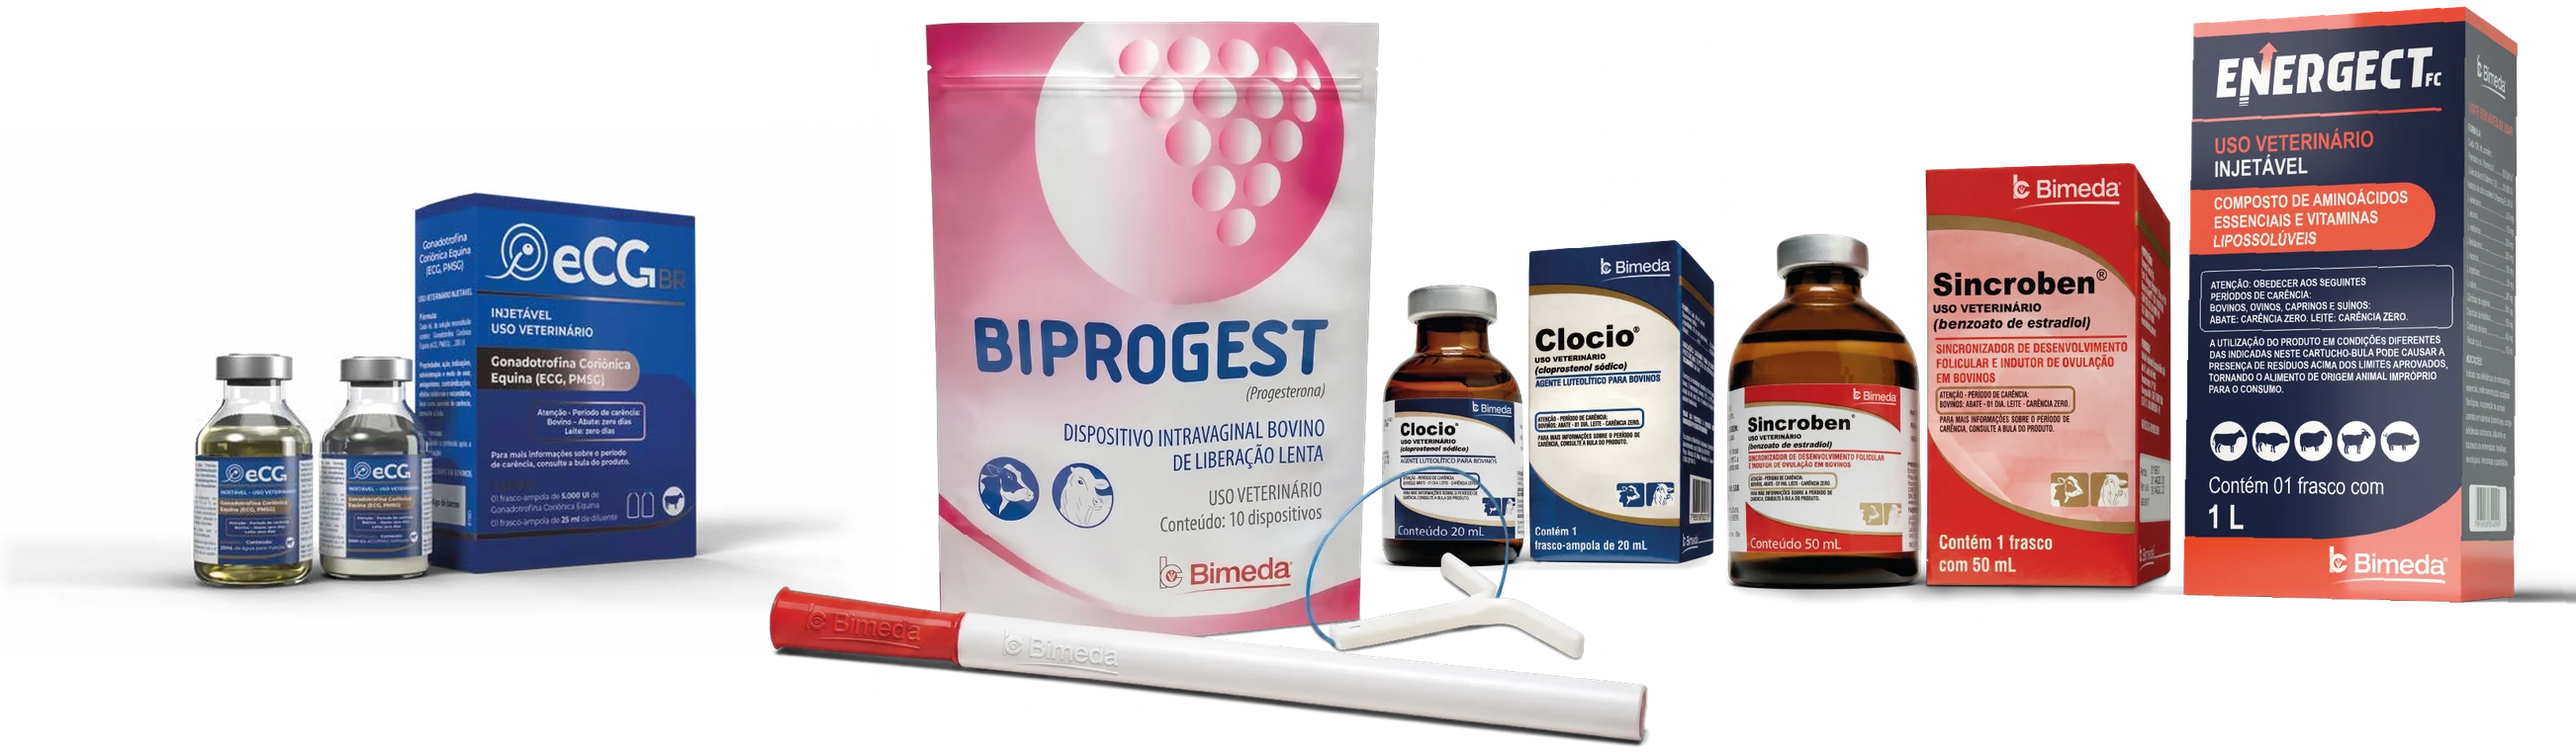
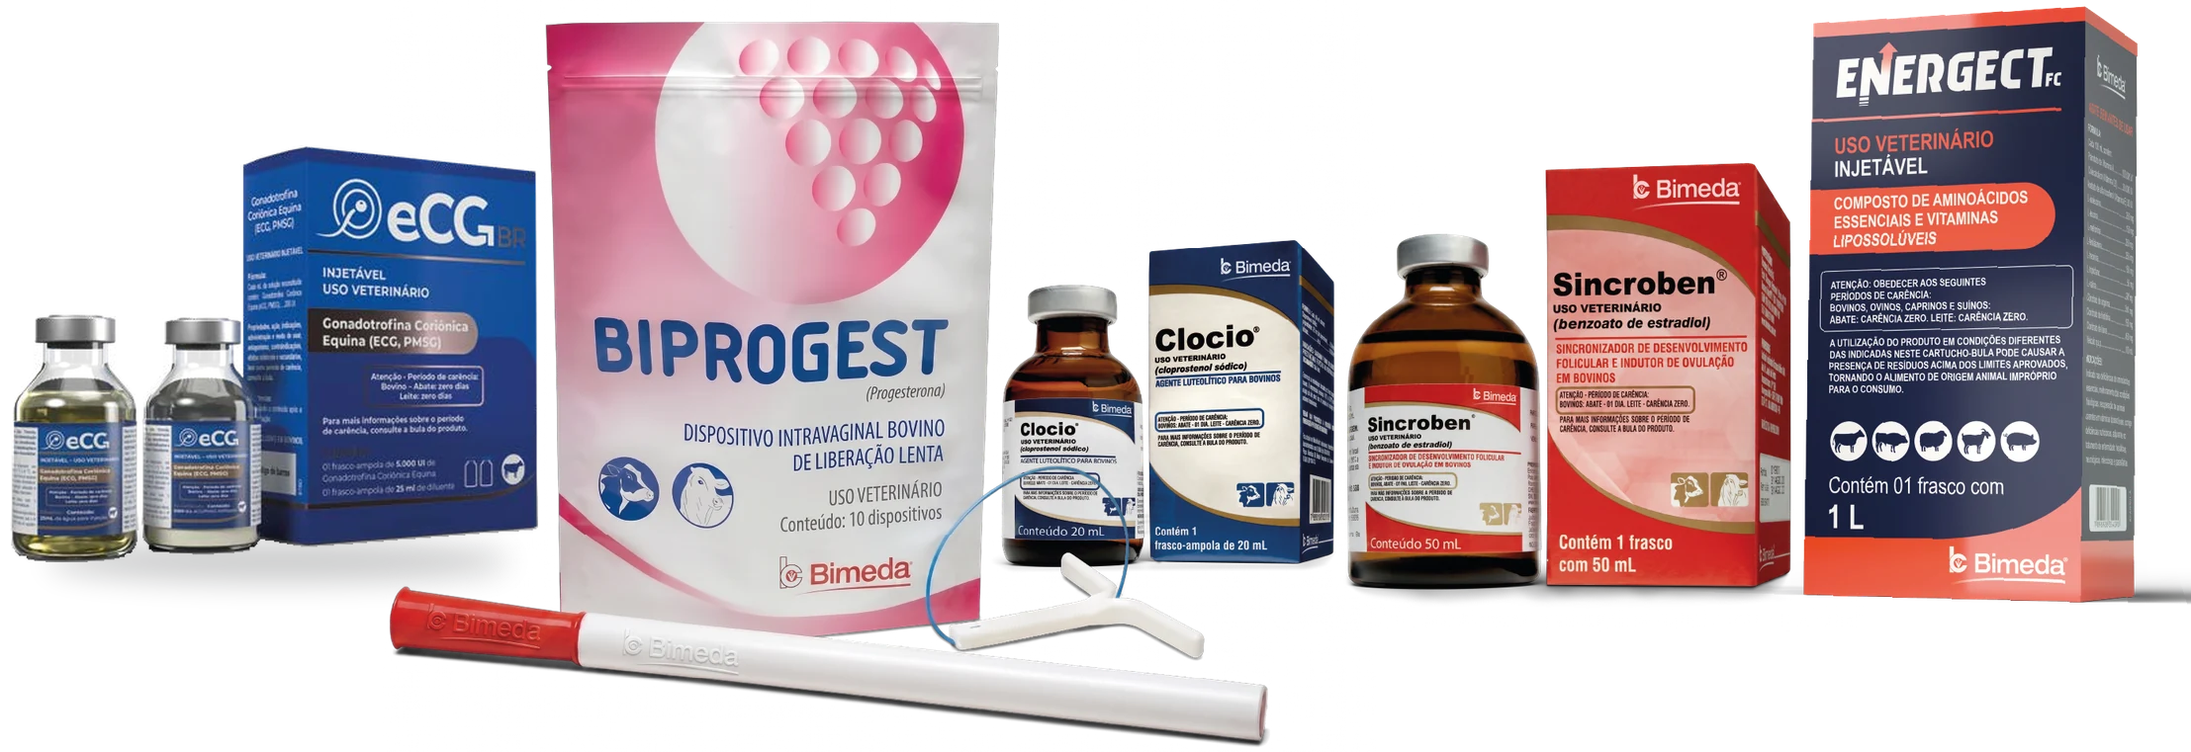
Harmoniza a montagem da foto de familia com o eCG
Tres problemas na montagem anterior, todos geometricos:

1. Sombra. O recorte do eCG trazia a sombra difusa de estudio do folheto,
   que sobre o azul da pagina 6 era discreta e sobre o branco da LP virava
   um borrao cinza. O resto da foto de familia e recorte limpo, com sombra
   de contato quase nula. Removi a sombra do eCG gatilhando o alfa pela
   silhueta dos produtos, e deixei so um contato leve, no mesmo registro
   das outras pecas.
2. Linha de chao. Eu tinha alinhado o eCG pela base do alfa, que incluia a
   sombra, entao a caixa flutuava uns 30 px acima do chao. A base da foto
   sobe de 566 px (Clocio) para 607 px (Energect), ou seja, tem perspectiva.
   Agora a caixa do eCG assenta em 550 px, que e a projecao dessa reta na
   posicao dele.
3. Distancia. O eCG estava a 112 px do Biprogest, solto do grupo. Agora
   encosta. Nao da para sobrepor: a logo eCG BR vai ate 13 px da borda da
   caixa, e qualquer sobreposicao cortaria o BR.

De quebra a arte ficou mais estreita (2604 para 2215 px), entao o lineup
passa a preencher a coluna e cresce um pouco no desktop.

diff --git a/assets/css/style.css b/assets/css/style.css
@@ -207,7 +207,7 @@ p:last-child{margin-bottom:0}
    A LINHA
    ========================================================================== */
 .lineup{margin-bottom:44px}
-.lineup img{margin-inline:auto; max-height:300px; width:auto; object-fit:contain}
+.lineup img{margin-inline:auto; max-height:340px; width:auto; object-fit:contain}
 .index{
   list-style:none; display:grid; grid-template-columns:repeat(5,1fr);
   border-top:1px solid var(--line);

diff --git a/index.html b/index.html
@@ -193,7 +193,7 @@
         <source srcset="assets/img/produtos-familia.webp" type="image/webp">
         <img src="assets/img/produtos-familia.png"
              alt="eCG BR, Biprogest, Clocio, Sincroben e Energect FC, linha Bimeda Reprodução"
-             width="2604" height="761" loading="lazy">
+             width="2215" height="761" loading="lazy">
       </picture>
     </div>
 

diff --git a/README.md b/README.md
@@ -54,8 +54,13 @@ A LP final entra em `master` depois que a estrutura for aprovada e o layout, afi
 ## Pendências com a Bimeda
 
 1. **Pack shot do eCG BR em alta.** O recorte em uso na seção do produto e na foto de família da
-   linha foi extraído do PDF do folheto, onde a imagem tem 764x431 px. Serve nas duas aplicações
-   atuais, mas um arquivo de origem em resolução maior deixaria a peça pronta para qualquer uso.
+   linha foi extraído do PDF do folheto, onde a imagem tem 764x431 px, e teve a sombra difusa do
+   estúdio removida para bater com o restante da foto de família, que é recorte limpo. Sobram
+   414x327 px de produto. Serve nas duas aplicações atuais, mas um arquivo de origem em resolução
+   maior deixaria a peça pronta para qualquer uso.
+   O mesmo vale para a foto de família: a versão em uso tem 2000x761 px, e existe uma de
+   2780x1259 px em `BIMEDA/materiais enviados/Linha Reprodução/Bimeda Repro 2/(Gravação)/Produtos.png`,
+   que vale adotar se a montagem for refeita.
 2. **URLs das redes sociais.** Instagram, LinkedIn e Facebook estão presumidos a partir de `@bimedabrasil`.
 3. **Link da política de privacidade** para o aceite do formulário.
 4. **Hospedagem do vídeo.** Hoje o arquivo tem 18 MB e é servido pela própria página. Para produção,
